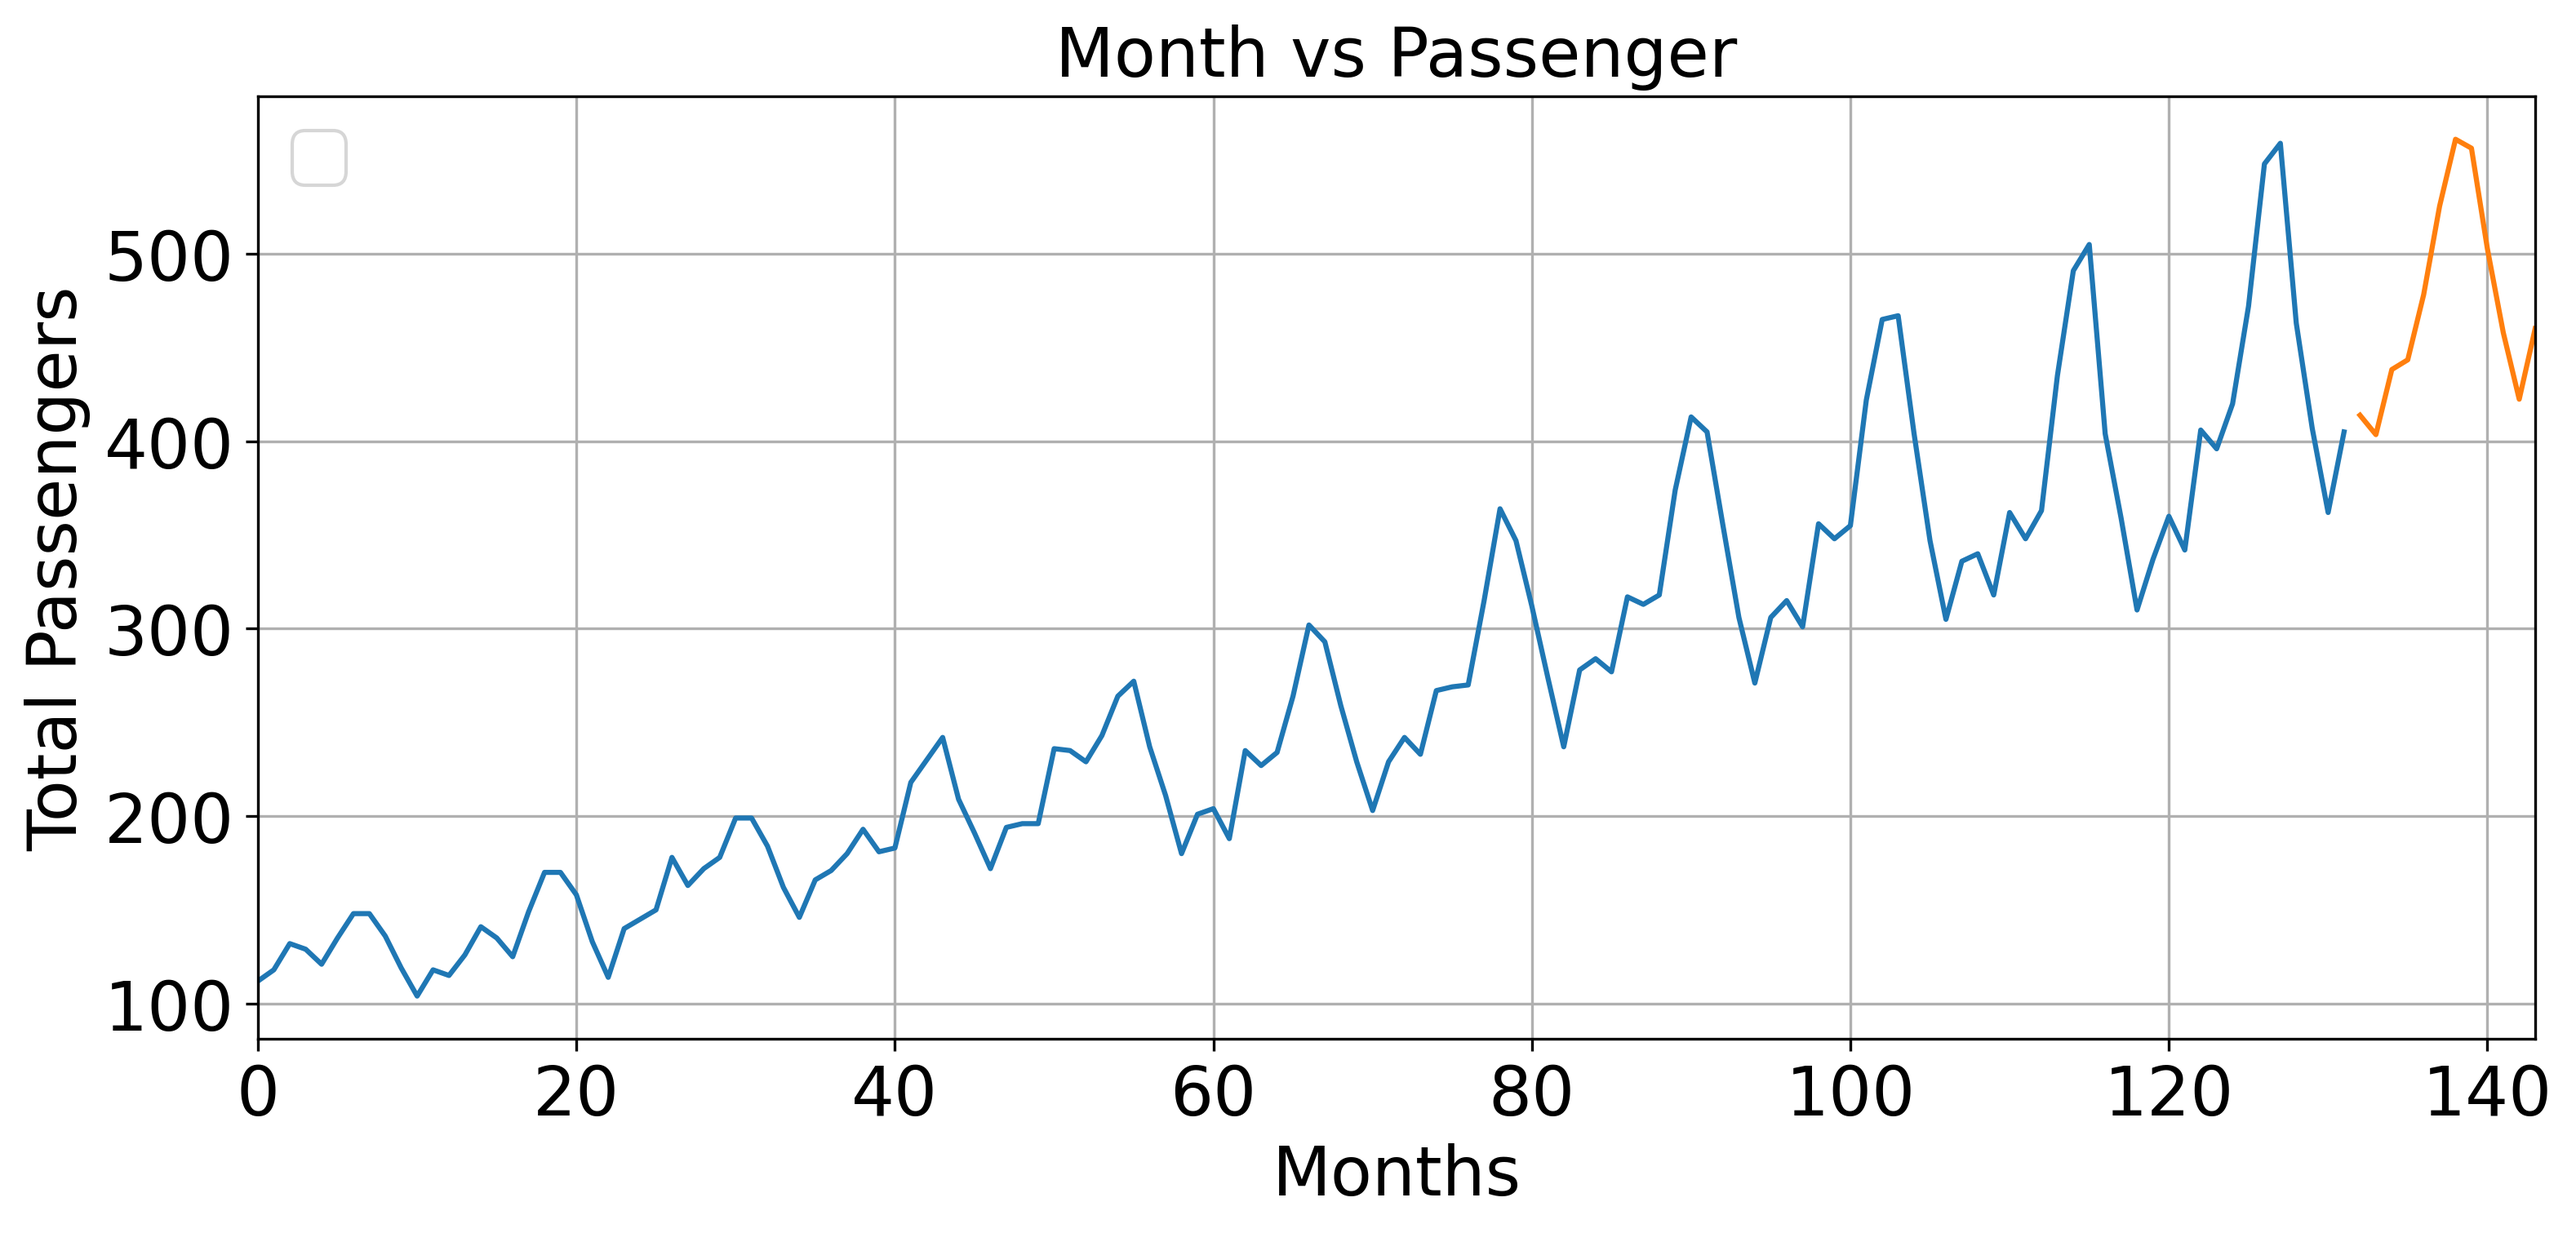
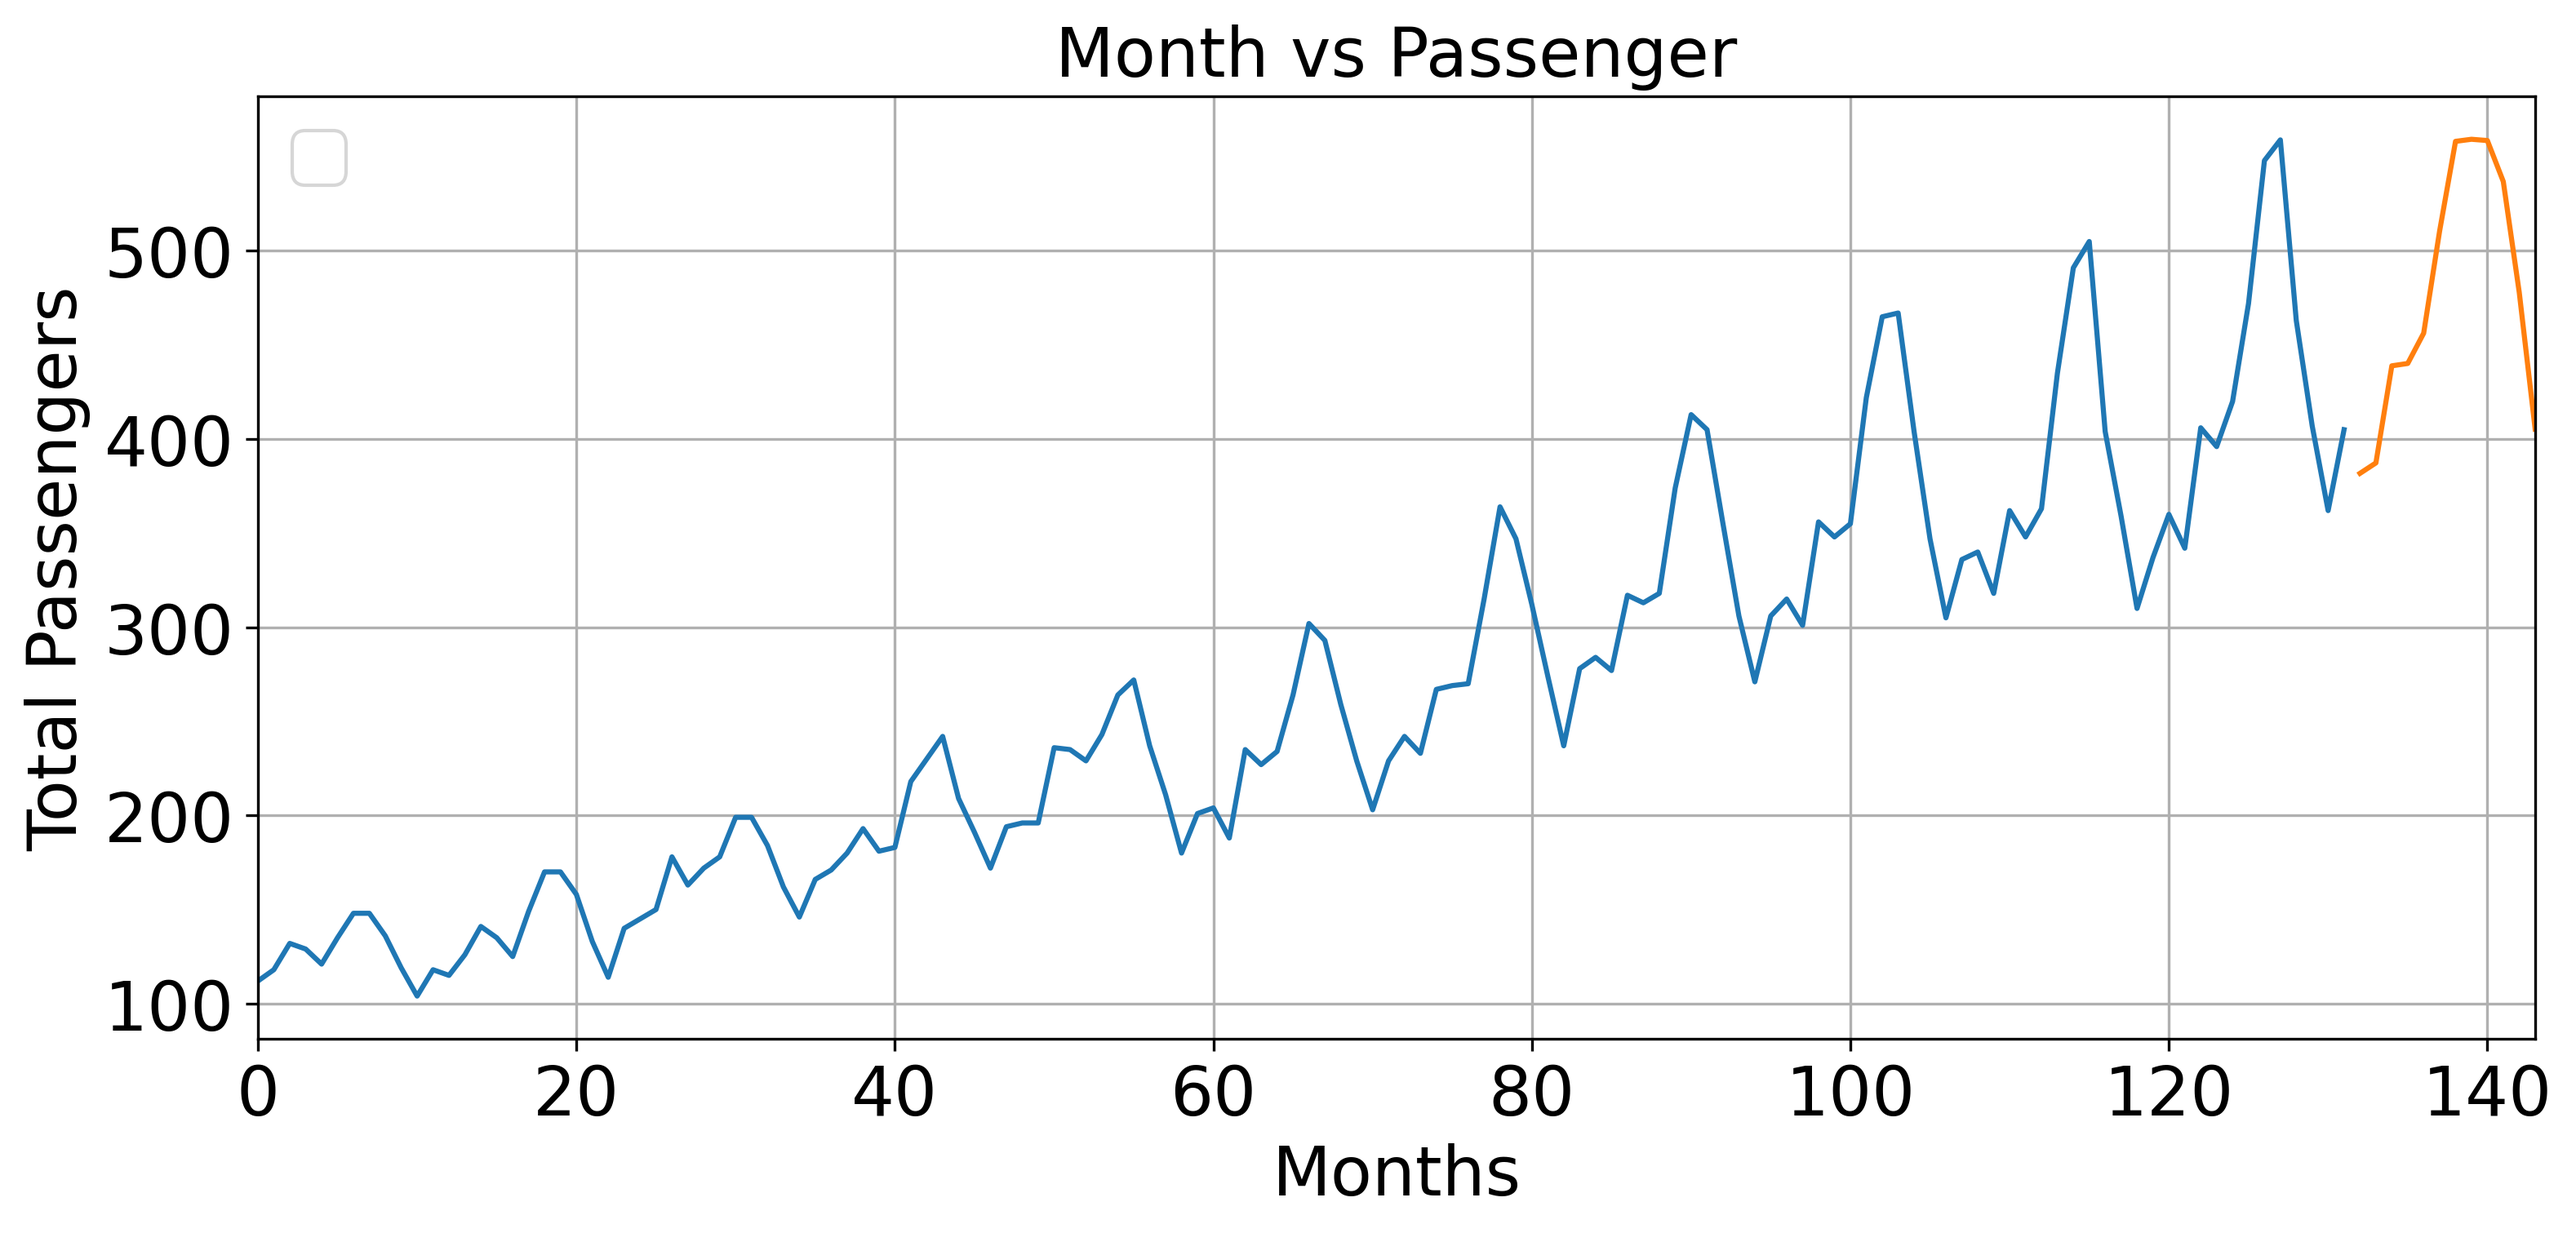
second

Changed region(s): [[0.0311, 0.1244, 0.9937, 0.3422], [0.0311, 0.3422, 0.9626, 0.3733], [0.3726, 0.6532, 0.4037, 0.6843]]

diff --git a/backend/agent/models.py b/backend/agent/models.py
@@ -3,8 +3,10 @@ import torch
 from sklearn.preprocessing import MinMaxScaler
 import numpy as np
 from pastplotter import future_plot
+import matplotlib.pyplot as plt
 #data preprocessing
-sold_data  = pd.read_csv("../files/boost.csv", parse_dates=['Month'], index_col='Month')
+sold_data  = pd.read_csv("../files/boost.csv", parse_dates=['Month'])
+sold_data['Month'] = pd.to_datetime(sold_data['Month'])
 all_data = sold_data['Passengers'].values.astype(float)
 test_data_size = 12
 train_data = all_data[:-test_data_size]
@@ -76,3 +78,33 @@ actual_df.columns = ['passengers']
 new_predict = pd.concat([train_df,actual_df]).reset_index(drop=True)
 ##plot the future predictions
 future_plot(x, new_predict, sold_data, train_window)
+
+##by using prophet model
+from prophet import Prophet
+
+# Rename columns to prepare for modeling (like Prophet or similar)
+sold_data.rename(columns={'Month': 'ds', 'Passengers': 'y'}, inplace=True)
+
+# Optional: If you need year and month separately
+sold_data['year'] = sold_data['ds'].dt.year
+sold_data['month'] = sold_data['ds'].dt.month
+
+# Check final structure
+print(sold_data.head())
+sold_data= sold_data.drop(columns=["year","month"])
+
+from prophet.plot import plot_plotly, plot_components_plotly
+from prophet import Prophet 
+m = Prophet()
+m.fit(sold_data)
+future = m.make_future_dataframe(periods=500)
+forecast = m.predict(future)
+fig2 = m.plot_components(forecast)
+plt.show()
+
+fig1 = plot_plotly(m, forecast)
+fig1.show()  # <-- Required to display plot outside notebooks
+
+# Plot components
+fig2 = plot_components_plotly(m, forecast)
+fig2.show()
